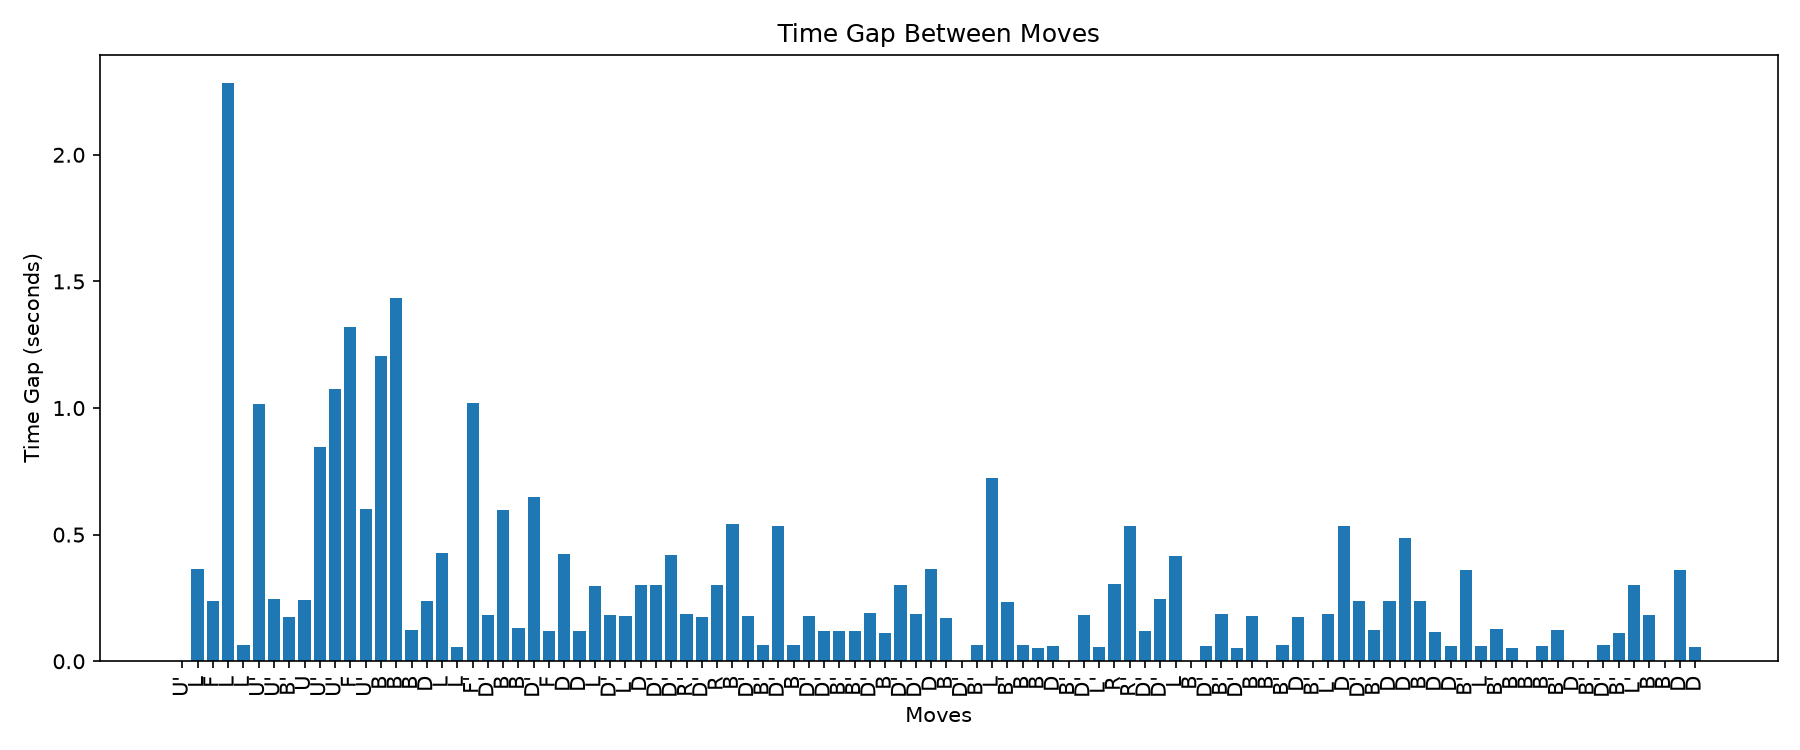
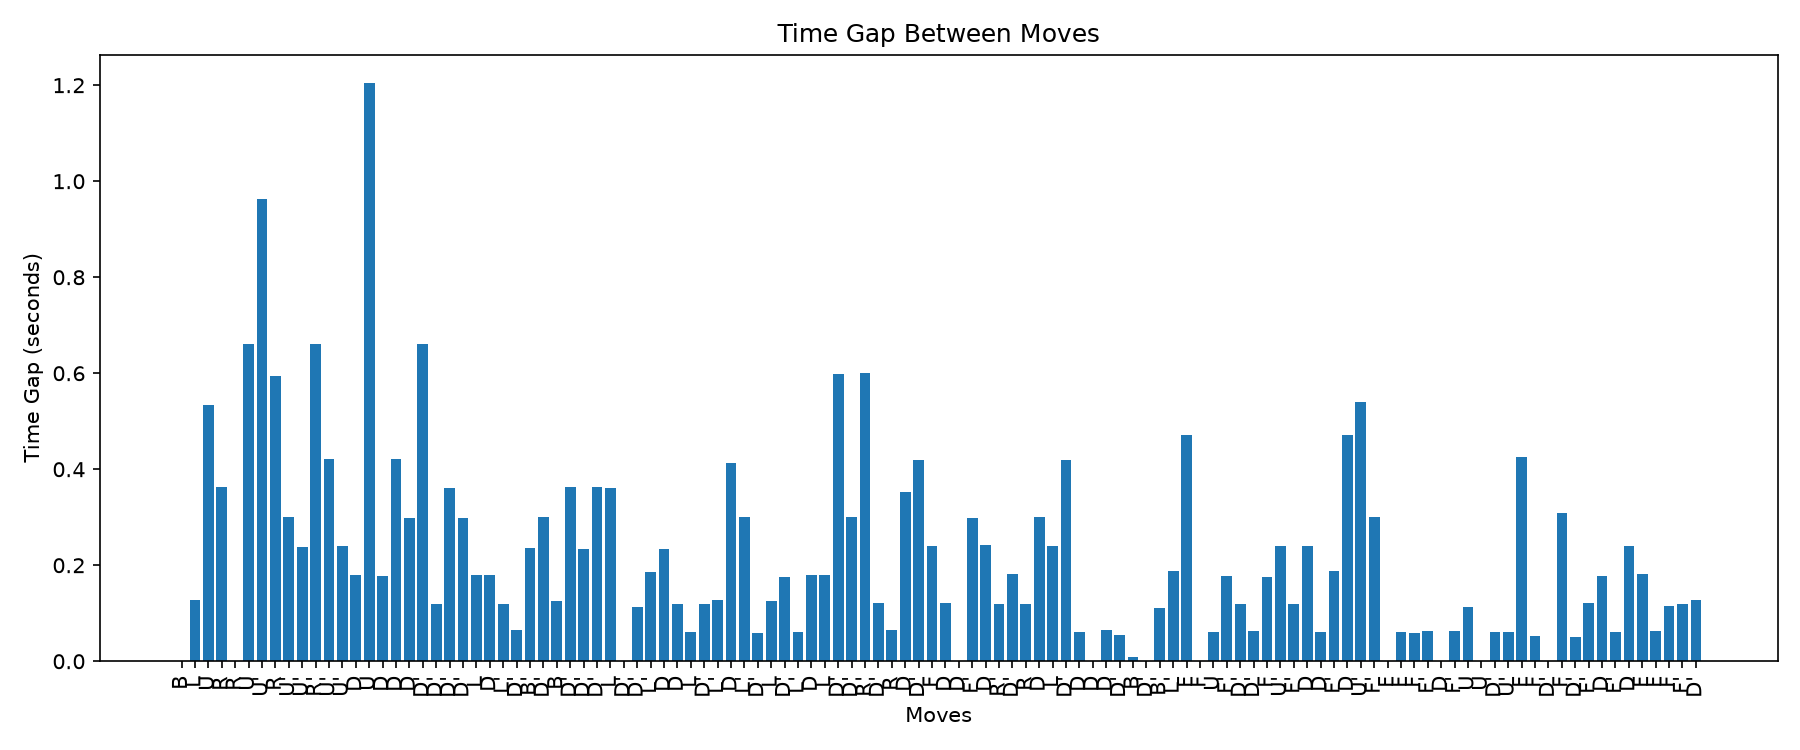
Fixed graphs, both graphs now show up simultaneously, new replay function added

diff --git a/main.py b/main.py
@@ -82,7 +82,7 @@ def plot_tps_graph(average_tps):
     if not tps_values:
         print("Not enough moves to generate TPS graph.")
         return
-    plt.figure(figsize=(12, 5))
+    plt.figure("TPS Progression", figsize=(12, 5))
     plt.plot(
         move_numbers,
         tps_values,
@@ -103,7 +103,6 @@ def plot_tps_graph(average_tps):
     plt.legend()
     plt.tight_layout()
     plt.savefig("tps.png", dpi=150)
-    plt.show()
 
 def calculate_gap_graph():
 	times = full_moves[1]
@@ -116,7 +115,7 @@ def plot_graphs():
 	moves = full_moves[0]
 	if not gaps:
 		return
-	plt.figure(figsize=(12,5))
+	plt.figure("Time Gaps", figsize=(12,5))
 	plt.bar(range(len(gaps)), gaps)
 	plt.xticks(range(len(moves)), moves, rotation=90)
 	plt.xlabel('Moves')
@@ -124,6 +123,10 @@ def plot_graphs():
 	plt.title('Time Gap Between Moves')
 	plt.tight_layout()
 	plt.savefig("gaps.png", dpi=150)
+
+def display_all_plots():
+	plot_tps_graph(sum(full_moves[2]) / len(full_moves[2]) if full_moves[2] else 0)
+	plot_graphs()
 	plt.show()
 
 def scramble_cube():
@@ -302,11 +305,28 @@ def CFOP():
 					run_cfop_check = False
 					global end_time
 					global finish_session
-					analyse_cube_solve()
+					answer = input("Cube solved! Do you want to analyse the solve? (y/n): ")
+					if answer.lower() == "y":
+						analyse_cube_solve()
 #					serial_communication_protocol()
 					finish_session = True
 
 def analyse_cube_solve():
+	print("\033c", end="")
+	visual.reset()
+	visual.rotate(scramble)
+	for x in range(len(full_moves[0])):
+			print("\033c", end="")
+			print(visual)
+			move_analysis = full_moves[0][x]
+			if x == 0:
+				gap = full_moves[1][x]
+				full_moves[2].append(gap)
+			else:
+				gap = full_moves[1][x]-full_moves[1][x-1]
+				full_moves[2].append(gap)
+			visual.rotate(move_analysis)
+			time.sleep(full_moves[2][x])
 	analysis = []
 	end_time = time.perf_counter()
 	print("Time:", str(end_time - start_time))
@@ -467,4 +487,4 @@ async def run_task():
 		if finish_session:
 			break
 asyncio.run(main())
-plot_graphs()
+display_all_plots()
